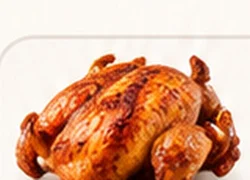
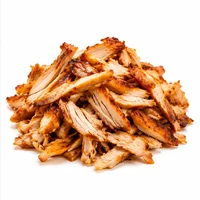
Add files via upload

diff --git a/assets/app.js b/assets/app.js
@@ -1,9 +1,9 @@
 /* Schawa Grill V5 — client-side demonstration, no automatic WhatsApp bot. */
 const CONFIG={whatsappNumber:'',currency:'EUR'};
 const products=[
-{id:'classic',name:'Shawarma Klassik',desc:'Hähnchen, Gemüse, Knoblauchsoße, Lavash',price:10,category:'shawarma',image:'hero.jpg'},
-{id:'xl',name:'Shawarma XL',desc:'Mehr Fleisch, Gemüse, Knoblauchsoße, Lavash',price:12,category:'shawarma',image:'hero.jpg'},
-{id:'spicy',name:'Shawarma Scharf',desc:'Hähnchen, Gemüse, scharfe Soße, Lavash',price:10.5,category:'shawarma',image:'hero.jpg'},
+{id:'classic',name:'Shawarma Klassik',desc:'Hähnchen, Gemüse, Knoblauchsoße, Lavash',price:10,category:'shawarma',image:'shawarma-card.webp'},
+{id:'xl',name:'Shawarma XL',desc:'Mehr Fleisch, Gemüse, Knoblauchsoße, Lavash',price:12,category:'shawarma',image:'shawarma-card.webp'},
+{id:'spicy',name:'Shawarma Scharf',desc:'Hähnchen, Gemüse, scharfe Soße, Lavash',price:10.5,category:'shawarma',image:'shawarma-card.webp'},
 {id:'fries',name:'Pommes Frites',desc:'Knusprige Pommes',price:4,category:'sides',image:'pommes.jpg'},
 {id:'nuggets',name:'Chicken Nuggets',desc:'Knusprige Nuggets',price:6,category:'sides',image:'nuggets.jpg'},
 {id:'shrimp',name:'Frittierte Garnelen',desc:'Knusprige Garnelen',price:8,category:'sides',image:'shrimp.jpg'},
@@ -12,16 +12,19 @@ const products=[
 {id:'sprite',name:'Sprite',desc:'0,33 l',price:2.5,category:'drinks',image:'sprite.svg'}
 ];
 const ingredients=[['lavash','ingredient-lavash.webp','Armenischer Lavash'],['meat','ingredient-meat.webp','Hähnchenfleisch'],['tomato','ingredient-tomato.webp','Tomaten'],['carrot','ingredient-carrot.webp','Koreanische Karotten'],['cabbage','ingredient-cabbage.webp','Weißkohl'],['pickle','ingredient-pickle.webp','Salzgurken'],['fries','ingredient-fries.webp','Kartoffeln'],['sauce','ingredient-sauce.webp','Knoblauchsoße']];
+const extrasPhotos={onion:'ingredient-onion.webp',meat:'ingredient-meat.webp',sauce:'ingredient-sauce.webp',cheese:'ingredient-cheese.svg',hot:'ingredient-hot.svg'};
 const extras=[['onion','Zwiebeln',0],['meat','Extra Fleisch',2],['sauce','Extra Knoblauchsoße',0],['cheese','Käse',1],['hot','Scharfe Soße',0]];
 let cart=[],filter='all',serial=0;
 const $=s=>document.querySelector(s), euro=n=>n.toLocaleString('de-DE',{style:'currency',currency:'EUR'}), esc=s=>String(s).replace(/[&<>"']/g,c=>({'&':'&amp;','<':'&lt;','>':'&gt;','"':'&quot;',"'":'&#39;'}[c]));
 const isShawarma=p=>p.category==='shawarma';
+function toggleHomeCategory(cat){const target=document.querySelector('.home-category-panel[data-cat="'+cat+'"]');if(!target)return;const opening=target.hidden;document.querySelectorAll('.home-category-panel').forEach(x=>x.hidden=true);document.querySelectorAll('.home-category-toggle').forEach(x=>x.setAttribute('aria-expanded','false'));target.hidden=!opening;document.querySelector('.home-category-toggle[data-cat="'+cat+'"]')?.setAttribute('aria-expanded',String(opening));}
 function go(page){document.querySelectorAll('.page').forEach(x=>x.classList.toggle('active',x.id===page));$('#drawer').hidden=true;syncMenu();window.scrollTo(0,0);updateBottom();history.replaceState(null,'','#'+page)}
 function setFilter(cat){filter=cat;document.querySelectorAll('[data-filter]').forEach(b=>b.classList.toggle('selected',b.dataset.filter===cat));renderMenu()}
 function ingredientsHtml(line,editable){return `<div class="ingredients ${editable?'editable':''}">${ingredients.map(([id,icon,label])=>{const enabled=id==='lavash'||id==='meat'||(line?line.ingredients[id]!==false:true);return editable?`<label class="ingredient ingredient-toggle ${enabled?'':'removed'}"><input type="checkbox" data-ingredient="${id}" data-line="${line.uid}" ${enabled?'checked':''} ${id==='lavash'||id==='meat'?'disabled':''}><img class="ingredient-photo" src="assets/${icon}" alt="" loading="lazy"><span class="ingredient-label">${label}${id==='lavash'||id==='meat'?' · fest':''}</span></label>`:`<span class="ingredient"><img class="ingredient-photo" src="assets/${icon}" alt="" loading="lazy"><span class="ingredient-label">${label}${id==='lavash'||id==='meat'?' · fest':''}</span></span>`}).join('')}</div>`}
-function extrasHtml(line){return `<div class="extras">${extras.map(([id,label,price])=>`<label><input type="checkbox" data-extra="${id}" data-line="${line.uid}" ${line.extras[id]?'checked':''} ${id==='sauce'&&line.ingredients.sauce===false?'disabled':''}>${label} <span>${price===0?'Kostenlos':'+'+euro(price)}</span></label>`).join('')}</div>`}
+function extrasHtml(line){return `<div class="extras extras-photos">${extras.map(([id,label,price])=>`<label class="extra-tile"><input type="checkbox" data-extra="${id}" data-line="${line.uid}" ${line.extras[id]?'checked':''} ${id==='sauce'&&line.ingredients.sauce===false?'disabled':''}><img src="assets/${extrasPhotos[id]}" alt="" loading="lazy"><span>${label}</span><small>${price===0?'Kostenlos':'+'+euro(price)}</small></label>`).join('')}</div>`}
 function priceOf(line){return line.price+extras.reduce((n,[id,,price])=>n+(line.extras[id]?price:0),0)}
 function newLine(p){return {uid:++serial,id:p.id,name:p.name,price:p.price,image:p.image,category:p.category,ingredients:Object.fromEntries(ingredients.map(([id])=>[id,true])),extras:{},halved:false,note:''}}
+function renderHomeCategories(){document.querySelectorAll('.home-category-panel').forEach(panel=>{const cat=panel.dataset.cat;panel.innerHTML=products.filter(p=>p.category===cat).map(p=>`<button class="home-product" data-add="${p.id}"><img src="assets/${p.image}" alt=""><span><strong>${esc(p.name)}</strong><small>${esc(p.desc)}</small></span><b>${euro(p.price)} +</b></button>`).join('')})}
 function renderMenu(){const items=products.filter(p=>filter==='all'||p.category===filter);$('#products').innerHTML=items.map(p=>`<article class="product"><div class="product-thumb ${isShawarma(p)?'shawarma-thumb':''}"><img src="assets/${p.image}" alt="${esc(p.name)}" loading="lazy"></div><div class="product-main"><h3>${esc(p.name)}</h3><p>${esc(p.desc)}</p><div class="price">${euro(p.price)}</div></div><button class="add" data-add="${p.id}" aria-label="${esc(p.name)} hinzufügen">+</button>${isShawarma(p)?`<div class="product-ingredients">${ingredientsHtml(null,false)}</div>`:''}</article>`).join('')}
 function add(id){const p=products.find(x=>x.id===id);if(!p)return;cart.push(newLine(p));renderOrder();updateBottom()}
 function remove(uid){cart=cart.filter(x=>x.uid!==uid);renderOrder();updateBottom()}
@@ -32,10 +35,10 @@ function renderOrder(){const groups=[['🌯 Shawarma','shawarma'],['🍟 Pommes 
 function renderCart(){const el=$('#cartItems');el.innerHTML=cart.length?cart.map(x=>`<article class="cart-line"><div class="cart-line-top"><img class="cart-mini-photo" src="assets/${x.image}" alt=""><strong>${esc(x.name)}</strong><strong>${euro(priceOf(x))}</strong><div class="cart-qty"><button data-remove="${x.uid}" aria-label="Eine Portion entfernen">−</button><span>1</span><button data-add="${x.id}" aria-label="Eine Portion hinzufügen">+</button></div><button class="remove-line" data-remove="${x.uid}" aria-label="Entfernen">×</button></div>${isShawarma(x)?`<p class="option-hint">Zutaten auswählen oder abwählen:</p>${ingredientsHtml(x,true)}${extrasHtml(x)}<label class="half-option"><input type="checkbox" data-half="${x.uid}" ${x.halved?'checked':''}>In zwei Hälften schneiden (kostenlos)</label><label class="line-comment">Kommentar zu dieser Shawarma<textarea rows="2" maxlength="220" data-note="${x.uid}" placeholder="z. B. wenig Soße, extra knusprig ...">${esc(x.note)}</textarea></label>`:''}</article>`).join(''):'<p class="muted">Noch keine Produkte ausgewählt.</p>';$('#total').textContent=euro(amount());$('#checkoutTotal').textContent=euro(amount())}
 function updateBottom(){const count=cart.length;$('#bottomCount').textContent=count+' Artikel · '+euro(amount());$('#bottomBar').classList.toggle('visible',count>0&&!$('#order').classList.contains('active'));document.body.classList.toggle('has-cart',count>0)}
 function sendOrder(e){e.preventDefault();if(!cart.length){alert('Bitte zuerst Produkte auswählen.');return}const name=$('#customerName').value.trim(),phone=$('#phone').value.trim();if(!name||!phone){alert('Bitte Name und Telefonnummer eingeben.');return}const lines=cart.map((x,i)=>{const removed=isShawarma(x)?ingredients.filter(([id])=>id!=='lavash'&&id!=='meat'&&x.ingredients[id]===false).map(x=>x[2]):[];const added=extras.filter(([id])=>x.extras[id]).map(x=>x[1]);return `${i+1}. ${x.name} — ${euro(priceOf(x))}${removed.length?'\n   Ohne: '+removed.join(', '):''}${added.length?'\n   Extras: '+added.join(', '):''}${x.halved?'\n   In zwei Hälften schneiden':''}${x.note?'\n   Kommentar: '+x.note:''}`});const msg=['🌯 *Schawa Grill — Vorbestellung*','',...lines,'',`*Gesamt:* ${euro(amount())}`,`*Abholung in:* ${$('#pickup').value} Minuten`,`*Name:* ${name}`,`*Telefon:* ${phone}`,`*Allgemeiner Kommentar:* ${$('#comment').value.trim()||'—'}`,'','Bitte Verfügbarkeit und Abholzeit bestätigen.'].join('\n');if(CONFIG.whatsappNumber){window.open('https://wa.me/'+CONFIG.whatsappNumber+'?text='+encodeURIComponent(msg),'_blank','noopener,noreferrer')}else{if(navigator.clipboard?.writeText)navigator.clipboard.writeText(msg).then(()=>alert('Demo: Bestellung kopiert. WhatsApp-Nummer ist noch nicht eingerichtet.')).catch(()=>prompt('Demo-Bestellung kopieren:',msg));else prompt('Demo-Bestellung kopieren:',msg)}}
-document.addEventListener('click',e=>{const nav=e.target.closest('[data-page]');if(nav){e.preventDefault();go(nav.dataset.page);if(nav.dataset.category)setFilter(nav.dataset.category)}const f=e.target.closest('[data-filter]');if(f)setFilter(f.dataset.filter);const a=e.target.closest('[data-add]');if(a)add(a.dataset.add);const r=e.target.closest('[data-remove]');if(r)remove(+r.dataset.remove);const m=e.target.closest('[data-minus]');if(m)minus(m.dataset.minus);});
+document.addEventListener('click',e=>{const nav=e.target.closest('[data-page]');if(nav){e.preventDefault();go(nav.dataset.page);if(nav.dataset.category)setFilter(nav.dataset.category)}const accordion=e.target.closest('.home-category-toggle');if(accordion)toggleHomeCategory(accordion.dataset.cat);const f=e.target.closest('[data-filter]');if(f)setFilter(f.dataset.filter);const a=e.target.closest('[data-add]');if(a)add(a.dataset.add);const r=e.target.closest('[data-remove]');if(r)remove(+r.dataset.remove);const m=e.target.closest('[data-minus]');if(m)minus(m.dataset.minus);});
 document.addEventListener('change',e=>{const ing=e.target.closest('[data-ingredient]');if(ing){const line=cart.find(x=>x.uid===+ing.dataset.line);if(line){if(ing.dataset.ingredient==='lavash'||ing.dataset.ingredient==='meat')return;line.ingredients[ing.dataset.ingredient]=ing.checked;if(ing.dataset.ingredient==='sauce'&&!ing.checked)line.extras.sauce=false;renderCart();updateBottom()}}const extra=e.target.closest('[data-extra]');if(extra){const line=cart.find(x=>x.uid===+extra.dataset.line);if(line){if(extra.dataset.extra==='sauce'&&line.ingredients.sauce===false)return;line.extras[extra.dataset.extra]=extra.checked;renderCart();updateBottom()}}const half=e.target.closest('[data-half]');if(half){const line=cart.find(x=>x.uid===+half.dataset.half);if(line)line.halved=half.checked}});
 document.addEventListener('input',e=>{const note=e.target.closest('[data-note]');if(note){const line=cart.find(x=>x.uid===+note.dataset.note);if(line)line.note=note.value}});
 function syncMenu(){const open=!$('#drawer').hidden;$('#menuBtn').classList.toggle('is-open',open);$('#menuBtn').setAttribute('aria-expanded',String(open));$('#menuBtn').setAttribute('aria-label',open?'Menü schließen':'Menü öffnen');$('#menuBtn').textContent=open?'×':'☰'}$('#menuBtn').addEventListener('click',()=>{$('#drawer').hidden=!$('#drawer').hidden;syncMenu()});$('#clearCart').addEventListener('click',()=>{cart=[];renderOrder();updateBottom()});$('#orderForm').addEventListener('submit',sendOrder);
 for(let n=15;n<=60;n+=5)$('#pickup').insertAdjacentHTML('beforeend',`<option value="${n}" ${n===20?'selected':''}>In ${n} Minuten</option>`);
-$('#year').textContent=new Date().getFullYear();renderMenu();renderOrder();go(['home','menu','order','about','contact','privacy'].includes(location.hash.slice(1))?location.hash.slice(1):'home');
+$('#year').textContent=new Date().getFullYear();renderMenu();renderHomeCategories();renderOrder();go(['home','menu','order','about','contact','privacy'].includes(location.hash.slice(1))?location.hash.slice(1):'home');
 for(const id of ['googleRoute','wazeRoute'])document.getElementById(id)?.addEventListener('click',()=>alert('Demo: Standort noch nicht bestätigt. Navigation wird nach Festlegung der Adresse aktiviert.'));

diff --git a/index.html b/index.html
@@ -1,4 +1,4 @@
-<!doctype html><html lang="de"><head><meta charset="utf-8"><meta name="viewport" content="width=device-width,initial-scale=1,viewport-fit=cover"><meta name="theme-color" content="#17100e"><meta name="description" content="Schawa Grill aus Odessa — Shawarma, Pommes und Snacks. Schnell vorbestellen und abholen."><title>Schawa Grill aus Odessa</title><link rel="stylesheet" href="assets/style.css?v=10"></head><body>
+<!doctype html><html lang="de"><head><meta charset="utf-8"><meta name="viewport" content="width=device-width,initial-scale=1,viewport-fit=cover"><meta name="theme-color" content="#17100e"><meta name="description" content="Schawa Grill aus Odessa — Shawarma, Pommes und Snacks. Schnell vorbestellen und abholen."><title>Schawa Grill aus Odessa</title><link rel="stylesheet" href="assets/style.css?v=11"></head><body>
 <header class="top"><button class="iconbtn" id="menuBtn" aria-label="Menü öffnen" aria-expanded="false">☰</button><button class="brand" data-page="home"><img src="assets/logo.jpg" alt="Schawa Grill Logo"></button><div class="header-right"><span class="shop-status" title="Öffnungszeiten folgen"><i></i><span class="status-text">Eröffnung folgt</span></span><span class="lang" aria-label="Sprache: Deutsch">DE</span></div></header>
 <nav class="drawer" id="drawer" hidden><button data-page="home">Startseite</button><button data-page="menu">Speisekarte</button><button data-page="order">Vorbestellen</button><button data-page="about">Über uns</button><button data-page="contact">Kontakt & Anfahrt</button><button data-page="privacy">Datenschutz</button></nav>
 <main>
@@ -9,11 +9,11 @@
 <button class="home-menu-button" data-page="menu"><span>Speisekarte ansehen</span><b>›</b></button>
 <button class="home-review-button" data-page="contact"><span>Kontakt & Infos</span><b>›</b></button>
 <div class="location-strip"><span>📍</span><div><strong>Unser Standort in München</strong><small>Genaue Adresse wird vor der Eröffnung veröffentlicht</small></div></div>
-<h2 class="home-section-title">Unser Menü</h2><div class="category-grid photo-categories"><button data-page="menu" data-category="shawarma"><img src="assets/hero.jpg" alt="Shawarma"><span>Shawarma</span><b>›</b></button><button data-page="menu" data-category="sides"><img src="assets/pommes.jpg" alt="Pommes"><span>Pommes & Snacks</span><b>›</b></button><button data-page="menu" data-category="drinks"><img src="assets/drink.jpg" alt="Getränke"><span>Getränke</span><b>›</b></button></div>
+<h2 class="home-section-title">Unser Menü</h2><div class="home-category-list"><div class="home-category"><button class="home-category-toggle" data-cat="shawarma" aria-expanded="false"><img src="assets/shawarma-card.webp" alt=""><strong>Shawarma</strong><span class="category-chevron">⌄</span></button><div class="home-category-panel" data-cat="shawarma" hidden></div></div><div class="home-category"><button class="home-category-toggle" data-cat="sides" aria-expanded="false"><img src="assets/pommes.jpg" alt=""><strong>Pommes & Snacks</strong><span class="category-chevron">⌄</span></button><div class="home-category-panel" data-cat="sides" hidden></div></div><div class="home-category"><button class="home-category-toggle" data-cat="drinks" aria-expanded="false"><img src="assets/drink.jpg" alt=""><strong>Getränke</strong><span class="category-chevron">⌄</span></button><div class="home-category-panel" data-cat="drinks" hidden></div></div></div>
 <div class="home-promise"><span>🧄</span><div><strong>Unsere Knoblauchsoße</strong><small>Mit Aquafaba, ohne Ei in der Soßenrezeptur</small></div></div>
 </div></section>
 <section class="page" id="menu"><div class="content"><div class="section-head"><span class="eyebrow red">FRISCH & LECKER</span><h1>Speisekarte</h1><p>Wähle deine Favoriten und bestelle direkt zur Abholung.</p></div><div class="tabs" id="tabs"><button class="selected" data-filter="all">Alle</button><button data-filter="shawarma">Shawarma</button><button data-filter="sides">Snacks</button><button data-filter="drinks">Getränke</button></div><div id="products" class="products"></div><div class="notice">Demo-Menü: Preise und Zutaten sind vorläufig. Allergene vor Eröffnung bestätigen.</div></div></section>
 <section class="page" id="order"><div class="order-head"><span class="eyebrow">EXPRESS SERVICE</span><h1>Ich bin unterwegs!</h1><p>Wähle deine Bestellung und hole sie zur gewünschten Zeit ab.</p><div class="steps"><span>1 · Auswählen</span><span>2 · Abholzeit</span><span>3 · WhatsApp</span></div></div><div class="order-content"><div class="cart-panel"><div class="panel-title"><h2>Deine Bestellung</h2><button id="clearCart" class="text-btn">Leeren</button></div><div id="cartItems" class="cart-items"><p class="muted">Noch keine Produkte ausgewählt.</p></div><div class="total"><span>Gesamtsumme</span><strong id="total">0,00 €</strong></div></div><div id="orderProducts"></div><form id="orderForm" class="checkout"><h2>Abholzeit & Kontaktdaten</h2><label>Dein Name *<input id="customerName" autocomplete="name" required maxlength="80" placeholder="Vorname"></label><label>Telefonnummer *<input id="phone" autocomplete="tel" required inputmode="tel" type="tel" maxlength="30" placeholder="+49 ..."></label><label>Abholung in *<select id="pickup"></select></label><label>Kommentar (optional)<textarea id="comment" maxlength="400" rows="3" placeholder="z. B. wenig Soße, ohne Zwiebeln ..."></textarea></label><div class="total"><span>Gesamtsumme</span><strong id="checkoutTotal">0,00 €</strong></div><button type="submit" class="primary">⚡ Bestellung per WhatsApp senden <b>›</b></button><p class="fine">Demo: Solange keine WhatsApp-Nummer eingerichtet ist, kannst du die Bestellung kopieren. Nach der Einrichtung öffnet sich WhatsApp mit der Nachricht. Erst unsere Bestätigung macht die Bestellung verbindlich.</p></form></div></section>
 <section class="page" id="about"><div class="content"><div class="section-head"><span class="eyebrow red">UNSERE GESCHICHTE</span><h1>Schawa Grill<br>aus Odessa</h1></div><img class="about-logo" src="assets/logo.jpg" alt="Schawa Grill aus Odessa"><p>Shawarma nach Odessa-Art: frische Zutaten, knuspriger Lavash und unsere Knoblauchsoße auf Aquafaba-Basis — ohne Ei in der Soßenrezeptur.</p><div class="feature"><span>🌯</span><div><strong>Frisch zubereitet</strong><small>Shawarma direkt für deine Bestellung</small></div></div><div class="feature"><span>🧄</span><div><strong>Unsere Knoblauchsoße</strong><small>Mit Aquafaba und Sonnenblumenöl</small></div></div><button class="primary" data-page="order">Jetzt vorbestellen ›</button></div></section>
 <section class="page" id="contact"><div class="content"><div class="section-head"><span class="eyebrow red">WIR SEHEN UNS BALD</span><h1>Kontakt & Anfahrt</h1></div><div class="contact-card"><strong>📍 Standort</strong><p>Unser Standort in München wird noch bekanntgegeben. Die Adresse aus den Designbeispielen ist kein bestätigter Verkaufsstandort.</p></div><div class="contact-card"><strong>🕒 Öffnungszeiten</strong><p>Werden vor der Eröffnung veröffentlicht.</p></div><div class="contact-card"><strong>📱 Social Media</strong><p>Instagram und TikTok werden hier verlinkt, sobald die Profile feststehen.</p></div><button class="primary" data-page="order">Zur Vorbestellung ›</button></div></section>
-<section class="page" id="privacy"><div class="content legal-content"><div class="section-head"><span class="eyebrow red">RECHTLICHES</span><h1>Datenschutz</h1></div><p><strong>Demoseite — noch keine rechtsgültige Datenschutzerklärung.</strong></p><p>Diese Website wird derzeit als Vorschau entwickelt. Für die Veröffentlichung müssen insbesondere Verantwortlicher, Kontaktdaten, Hosting, Datenverarbeitung bei WhatsApp-Bestellungen und Betroffenenrechte ergänzt und rechtlich geprüft werden.</p><p>Bis dahin bitte keine echten Kundendaten über die Demo eingeben.</p></div></section></main><button type="button" class="floating-preorder" id="floatingPreorder" data-page="order">⚡ <span>Ich bin unterwegs · Vorbestellen</span> <b>›</b></button><div class="bottom-bar" id="bottomBar"><div><small>Dein Warenkorb</small><strong id="bottomCount">0 Artikel · 0,00 €</strong></div><button data-page="order">Vorbestellen ›</button></div><footer><div class="footer-social"><span aria-label="Instagram-Profil folgt" title="Instagram-Profil folgt">◎ Instagram</span><span aria-label="TikTok-Profil folgt" title="TikTok-Profil folgt">♪ TikTok</span></div><div class="footer-links"><a href="#contact" data-page="contact">Kontakt</a><a href="#privacy" data-page="privacy">Datenschutz (Entwurf)</a></div><p>© <span id="year"></span> Schawa Grill aus Odessa</p></footer><script src="assets/app.js?v=10"></script></body></html>
+<section class="page" id="privacy"><div class="content legal-content"><div class="section-head"><span class="eyebrow red">RECHTLICHES</span><h1>Datenschutz</h1></div><p><strong>Demoseite — noch keine rechtsgültige Datenschutzerklärung.</strong></p><p>Diese Website wird derzeit als Vorschau entwickelt. Für die Veröffentlichung müssen insbesondere Verantwortlicher, Kontaktdaten, Hosting, Datenverarbeitung bei WhatsApp-Bestellungen und Betroffenenrechte ergänzt und rechtlich geprüft werden.</p><p>Bis dahin bitte keine echten Kundendaten über die Demo eingeben.</p></div></section></main><button type="button" class="floating-preorder" id="floatingPreorder" data-page="order">⚡ <span>Ich bin unterwegs · Vorbestellen</span> <b>›</b></button><div class="bottom-bar" id="bottomBar"><div><small>Dein Warenkorb</small><strong id="bottomCount">0 Artikel · 0,00 €</strong></div><button data-page="order">Vorbestellen ›</button></div><footer><div class="footer-social"><span aria-label="Instagram-Profil folgt" title="Instagram-Profil folgt">◎ Instagram</span><span aria-label="TikTok-Profil folgt" title="TikTok-Profil folgt">♪ TikTok</span></div><div class="footer-links"><a href="#contact" data-page="contact">Kontakt</a><a href="#privacy" data-page="privacy">Datenschutz (Entwurf)</a></div><p>© <span id="year"></span> Schawa Grill aus Odessa</p></footer><script src="assets/app.js?v=11"></script></body></html>

diff --git a/assets/style.css b/assets/style.css
@@ -125,3 +125,20 @@ html{-webkit-text-size-adjust:100%}body{color:#211714}button,a,input,textarea,se
 .footer-social,.footer-links{display:flex;justify-content:center;align-items:center;gap:10px;flex-wrap:wrap;margin-bottom:12px}.footer-social span{border:1px solid #e8d8c9;border-radius:20px;padding:8px 13px;color:#665850;font-weight:750;background:#fff}.footer-links a{text-decoration:none;padding:6px;font-size:12px;font-weight:700}.legal-content{min-height:60vh}.legal-content p{line-height:1.7}
 footer{background:#fffaf5;border-top:1px solid #eee0d3;padding-top:28px!important}footer p{margin:6px 0 0}
 @media(max-width:390px){.top{grid-template-columns:40px minmax(0,1fr) 112px!important;padding:0 8px!important}.top .shop-status{max-width:82px;font-size:8px}.top .lang{padding:5px 7px}.product .ingredient-photo,.cart-line .ingredient-photo{width:34px!important;height:35px!important}.product .ingredient-label,.cart-line .ingredient-label{font-size:8px!important}.product .ingredient,.cart-line .ingredient{min-height:64px!important}}
+
+/* V11: dedicated product photography, five-column ingredients and accordion categories */
+.product-thumb.shawarma-thumb img,.order-thumb.shawarma-thumb img{width:100%!important;height:100%!important;max-width:100%!important;object-fit:contain!important;object-position:center!important;transform:none!important;clip-path:none!important}
+.cart-mini-photo{object-fit:contain!important;object-position:center!important;background:#110b0b}
+.product .ingredients,.cart-line .ingredients{grid-template-columns:repeat(5,minmax(0,1fr))!important;gap:4px!important}
+.product .ingredient,.cart-line .ingredient{min-height:67px!important;padding:4px 1px!important;border-radius:8px!important}
+.product .ingredient-photo,.cart-line .ingredient-photo{width:100%!important;max-width:40px!important;height:35px!important}
+.product .ingredient-label,.cart-line .ingredient-label{font-size:8px!important;line-height:1.08!important;hyphens:auto!important;overflow-wrap:anywhere!important}
+.extras.extras-photos{display:grid!important;grid-template-columns:repeat(5,minmax(0,1fr))!important;gap:4px!important}
+.extras.extras-photos .extra-tile{position:relative;display:flex!important;flex-direction:column!important;align-items:center!important;justify-content:center!important;text-align:center!important;min-width:0!important;min-height:82px!important;padding:5px 2px!important;gap:2px!important;border-radius:9px!important;background:#fffaf6!important}
+.extras-photos .extra-tile input{position:absolute;top:3px;right:3px;width:12px;height:12px;margin:0}
+.extras-photos .extra-tile img{width:38px;height:37px;object-fit:contain}
+.extras-photos .extra-tile span{font-size:8px!important;line-height:1.1!important;overflow-wrap:anywhere!important}
+.extras-photos .extra-tile small{font-size:8px;color:#c20c20;font-weight:700}
+.extras-photos .extra-tile:has(input:checked){background:#fff1e7!important;border-color:#c20c20!important}
+.home-category-list{display:grid;gap:9px}.home-category{background:white;border:1px solid #e8d9cc;border-radius:15px;overflow:hidden}.home-category-toggle{width:100%;min-height:82px;display:flex;align-items:center;gap:15px;padding:10px 15px;border:0;background:white;text-align:left;color:#20140f;font:inherit;cursor:pointer}.home-category-toggle img{width:65px;height:65px;object-fit:cover;border-radius:12px}.home-category-toggle strong{font-size:17px;flex:1}.category-chevron{font-size:26px;color:#b90c1d;transition:transform .2s}.home-category-toggle[aria-expanded=true] .category-chevron{transform:rotate(180deg)}.home-category-panel{border-top:1px solid #efe4dc;padding:7px 12px 12px}.home-category-panel[hidden]{display:none!important}.home-product{display:flex;align-items:center;gap:10px;width:100%;border:0;border-bottom:1px solid #f0e8e1;background:white;text-align:left;padding:10px 0;font:inherit;color:#20140f;cursor:pointer}.home-product:last-child{border:0}.home-product img{width:54px;height:54px;border-radius:9px;object-fit:contain;background:#170d0b}.home-product span{flex:1;min-width:0}.home-product strong{display:block;font-size:13px}.home-product small{display:block;font-size:10px;color:#7c6b61;line-height:1.3}.home-product b{font-size:12px;color:#c20c20;white-space:nowrap}
+@media(max-width:380px){.product .ingredient-photo,.cart-line .ingredient-photo{max-width:30px!important;height:30px!important}.product .ingredient-label,.cart-line .ingredient-label{font-size:7px!important}.extras-photos .extra-tile img{width:29px;height:30px}.extras-photos .extra-tile span{font-size:7px!important}}
